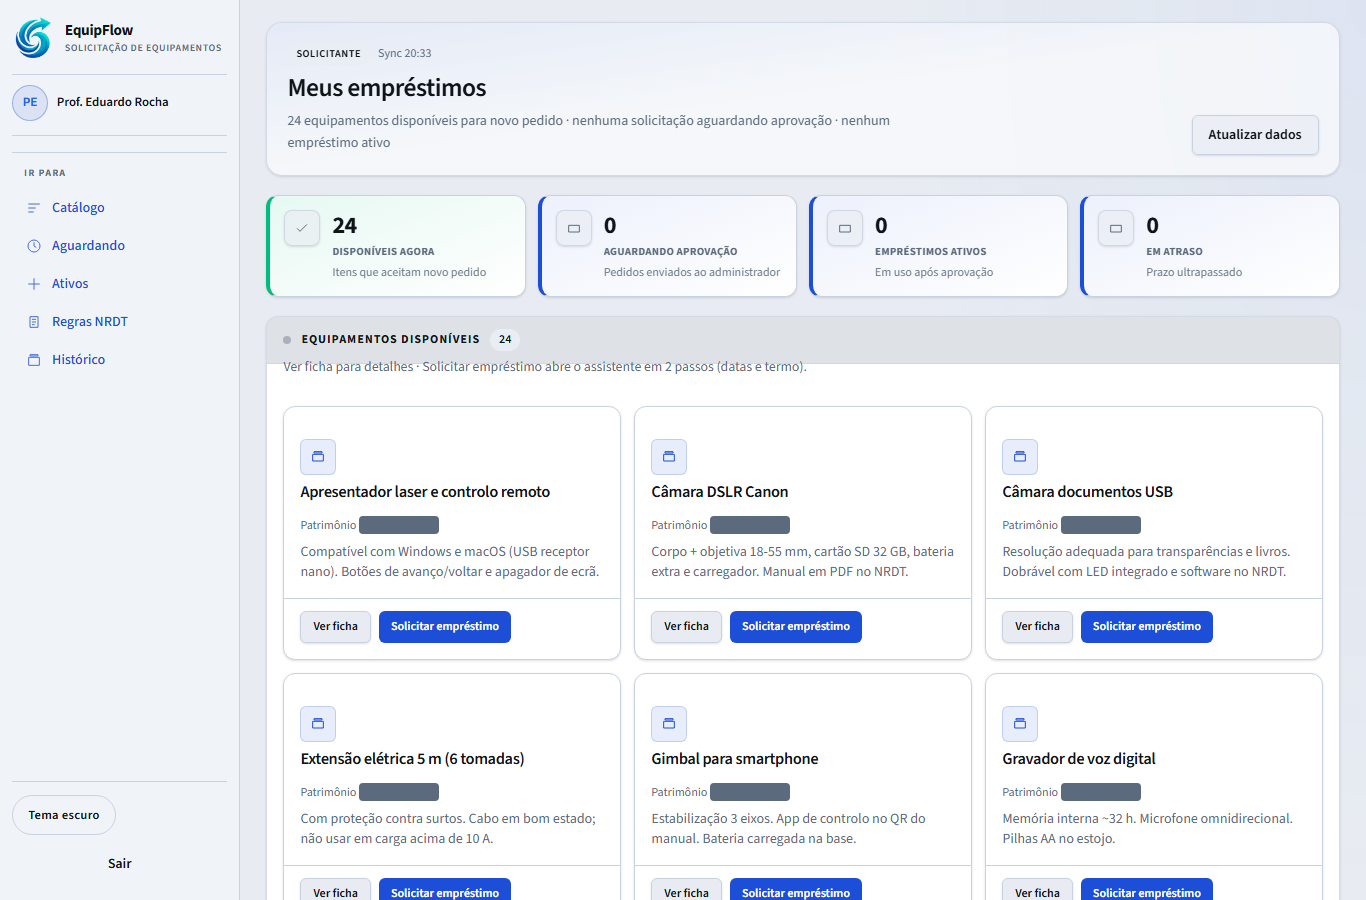
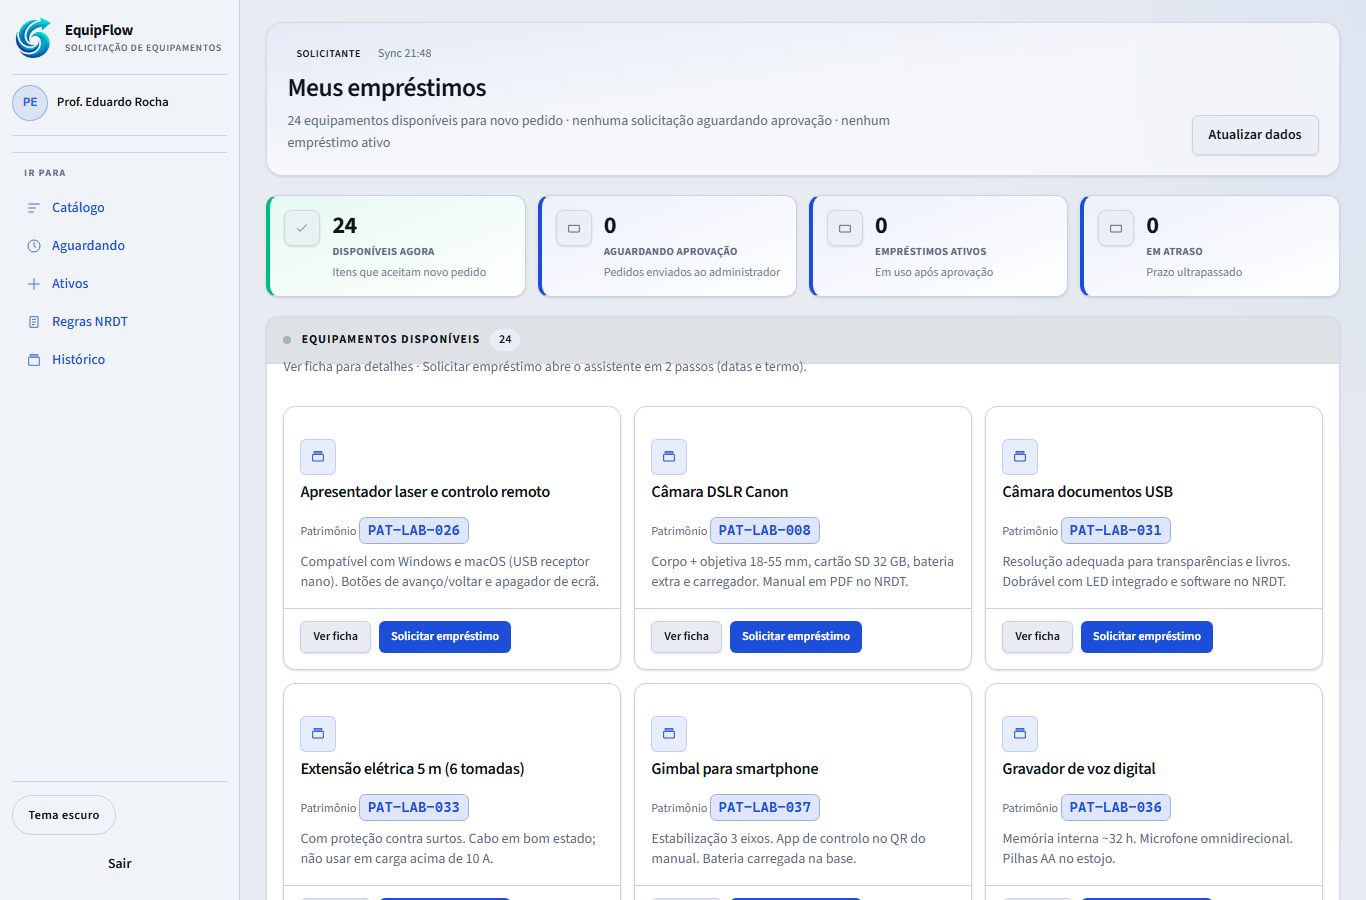
fix: corrige datas de empréstimo e centraliza modais
A validação de retirada/devolução agora usa o dia de calendário para aceitar empréstimos no dia atual sem erro por fuso. Também ajusta o posicionamento dos modais, melhora a legibilidade do código de patrimônio e atualiza as capturas do README para refletir a interface corrigida.

diff --git a/frontend/src/utils/date.ts b/frontend/src/utils/date.ts
@@ -28,16 +28,19 @@ export function dateInputToUtcIso(dateStr: string): string {
   return new Date(Date.UTC(y, m - 1, d, 12, 0, 0)).toISOString()
 }
 
-function parseDateInput(dateStr: string): Date | null {
+function dateInputStamp(dateStr: string): number | null {
   if (!/^\d{4}-\d{2}-\d{2}$/.test(dateStr)) return null
   const [y, m, d] = dateStr.split('-').map(Number)
-  return new Date(y, m - 1, d)
-}
-
-function startOfLocalDay(d: Date): Date {
-  const x = new Date(d)
-  x.setHours(0, 0, 0, 0)
-  return x
+  const stamp = Date.UTC(y, m - 1, d, 12, 0, 0, 0)
+  const check = new Date(stamp)
+  if (
+    check.getUTCFullYear() !== y ||
+    check.getUTCMonth() !== m - 1 ||
+    check.getUTCDate() !== d
+  ) {
+    return null
+  }
+  return stamp
 }
 
 /** Valida retirada/devolução no formulário; retorna mensagem ou null. */
@@ -47,22 +50,19 @@ export function validateLoanDateInputs(pickup: string, due: string): string | nu
   if (!pickupNorm || !dueNorm) {
     return 'Indique a data de retirada e a data de devolução.'
   }
-  const pickupD = parseDateInput(pickupNorm)
-  const dueD = parseDateInput(dueNorm)
-  if (!pickupD || !dueD) return 'Datas inválidas.'
+  const pickupStamp = dateInputStamp(pickupNorm)
+  const dueStamp = dateInputStamp(dueNorm)
+  if (pickupStamp === null || dueStamp === null) return 'Datas inválidas.'
 
-  const today = startOfLocalDay(new Date())
-  const pickupDay = startOfLocalDay(pickupD)
-  if (pickupDay.getTime() < today.getTime()) {
+  const today = minDateValue()
+  if (pickupNorm < today) {
     return 'A data de retirada não pode ser anterior a hoje.'
   }
 
-  pickupD.setHours(0, 0, 0, 0)
-  dueD.setHours(0, 0, 0, 0)
-  if (dueD <= pickupD) {
+  if (dueStamp <= pickupStamp) {
     return 'A data de devolução deve ser posterior à data de retirada (não pode ser no mesmo dia).'
   }
-  const gap = Math.round((dueD.getTime() - pickupD.getTime()) / 86400000)
+  const gap = Math.round((dueStamp - pickupStamp) / 86400000)
   if (gap < MIN_LOAN_DAYS) {
     return `O empréstimo deve ter no mínimo ${MIN_LOAN_DAYS} dias entre retirada e devolução.`
   }
@@ -105,7 +105,8 @@ export function isLoanOverdue(dueIso: string, status: LoanStatus): boolean {
 }
 
 export function dateSummaryFromInput(dateStr: string): string {
-  const d = parseDateInput(dateStr)
-  if (!d) return dateStr || '—'
+  const stamp = dateInputStamp(dateStr)
+  if (stamp === null) return dateStr || '—'
+  const d = new Date(stamp)
   return d.toLocaleDateString('pt-BR', { dateStyle: 'short' })
 }

diff --git a/frontend/src/index.css b/frontend/src/index.css
@@ -1364,13 +1364,20 @@ textarea {
 }
 
 .patrimony-code {
+  display: inline-flex;
+  align-items: center;
+  max-width: 100%;
   font-family: ui-monospace, 'Cascadia Code', monospace;
   font-size: 0.82rem;
-  padding: 0.2rem 0.45rem;
-  border-radius: 4px;
-  background: var(--void);
-  border: 1px solid var(--border);
-  color: var(--accent);
+  font-weight: 700;
+  letter-spacing: 0.01em;
+  padding: 0.2rem 0.5rem;
+  border-radius: 0.4rem;
+  white-space: nowrap;
+  background: color-mix(in srgb, var(--primary) 14%, var(--card));
+  border: 1px solid color-mix(in srgb, var(--primary) 28%, var(--border));
+  color: var(--primary);
+  box-shadow: inset 0 1px 0 rgba(255, 255, 255, 0.08);
 }
 
 .patrimony-inline {
@@ -1744,14 +1751,19 @@ textarea {
 
 .equipment-detail-dialog,
 .loan-request-dialog {
+  position: fixed;
+  inset: 0;
+  margin: auto;
   max-width: min(560px, calc(100vw - 2rem));
-  width: 100%;
+  width: min(560px, calc(100vw - 2rem));
+  max-height: calc(100dvh - 2rem);
   padding: 0;
   border: 1px solid var(--border);
   border-radius: 2px;
   background: var(--surface);
   color: var(--text);
   box-shadow: 0 24px 48px rgba(0, 0, 0, 0.35);
+  overflow: hidden;
 }
 
 .equipment-detail-dialog::backdrop,
@@ -1807,6 +1819,8 @@ textarea {
 
 .loan-request-inner {
   padding: 1.25rem 1.35rem 1.15rem;
+  max-height: calc(100dvh - 2rem);
+  overflow-y: auto;
 }
 
 .loan-request-steps {
@@ -1998,13 +2012,19 @@ input[type='date'] {
 
 /* â€”â€”â€” DiÃ¡logo de confirmaÃ§Ã£o â€”â€”â€” */
 .confirm-dialog {
+  position: fixed;
+  inset: 0;
+  margin: auto;
   max-width: min(420px, calc(100vw - 2rem));
+  width: min(420px, calc(100vw - 2rem));
+  max-height: calc(100dvh - 2rem);
   padding: 0;
   border: 1px solid var(--border);
   border-radius: 2px;
   background: var(--surface);
   color: var(--text);
   box-shadow: 0 24px 48px rgba(0, 0, 0, 0.35);
+  overflow: hidden;
 }
 
 .confirm-dialog::backdrop {
@@ -2013,6 +2033,8 @@ input[type='date'] {
 
 .confirm-dialog-inner {
   padding: 1.25rem 1.35rem 1.15rem;
+  max-height: calc(100dvh - 2rem);
+  overflow-y: auto;
 }
 
 .confirm-dialog-title {

diff --git a/frontend/src/components/dashboard/EquipmentCatalogCard.tsx b/frontend/src/components/dashboard/EquipmentCatalogCard.tsx
@@ -48,8 +48,7 @@ export function EquipmentCatalogCard({
         </div>
         <h4 className="font-semibold leading-snug">{equipment.name}</h4>
         <p className="text-muted-foreground text-xs">
-          Patrimônio{' '}
-          <code className="bg-muted rounded px-1 py-0.5 font-mono text-xs">{equipment.inventory_code}</code>
+          Patrimônio <code className="patrimony-code patrimony-inline">{equipment.inventory_code}</code>
         </p>
         <p className="text-muted-foreground line-clamp-3 flex-1 text-sm">{excerpt}</p>
       </CardContent>

diff --git a/backend/app/loan_dates.py b/backend/app/loan_dates.py
@@ -8,10 +8,10 @@ MIN_LOAN_DAYS = 3
 _CAMPUS_TZ = timezone(timedelta(hours=-4))
 
 
-def _as_utc_date(dt: datetime) -> date:
-    if dt.tzinfo is None:
-        dt = dt.replace(tzinfo=timezone.utc)
-    return dt.astimezone(timezone.utc).date()
+def _calendar_date(dt: datetime) -> date:
+    # `pickup_at`/`due_at` representam um dia escolhido no formulário, não um instante real.
+    # Por isso a validação usa a data declarada no payload, sem converter de fuso.
+    return dt.date()
 
 
 def _today_campus(now: datetime | None = None) -> date:
@@ -25,9 +25,8 @@ def validate_loan_schedule(pickup_at: datetime, due_at: datetime, *, now: dateti
     Regras: retirada >= hoje; devolução > retirada; intervalo mínimo de MIN_LOAN_DAYS dias de calendário.
     """
     today = _today_campus(now)
-    # O front envia o dia escolhido como meio-dia UTC (YYYY-MM-DDT12:00:00Z).
-    pickup_d = _as_utc_date(pickup_at)
-    due_d = _as_utc_date(due_at)
+    pickup_d = _calendar_date(pickup_at)
+    due_d = _calendar_date(due_at)
 
     if pickup_d < today:
         return "A data de retirada não pode ser anterior a hoje."
